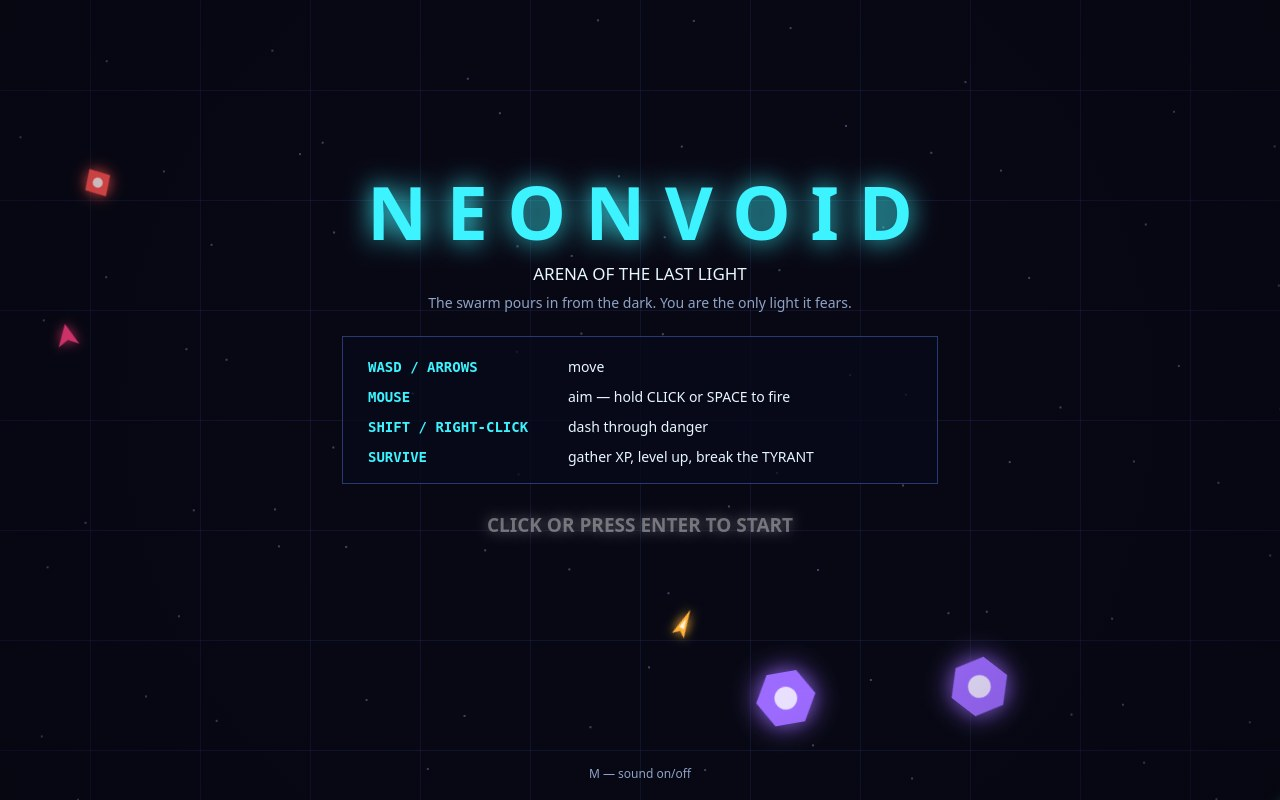
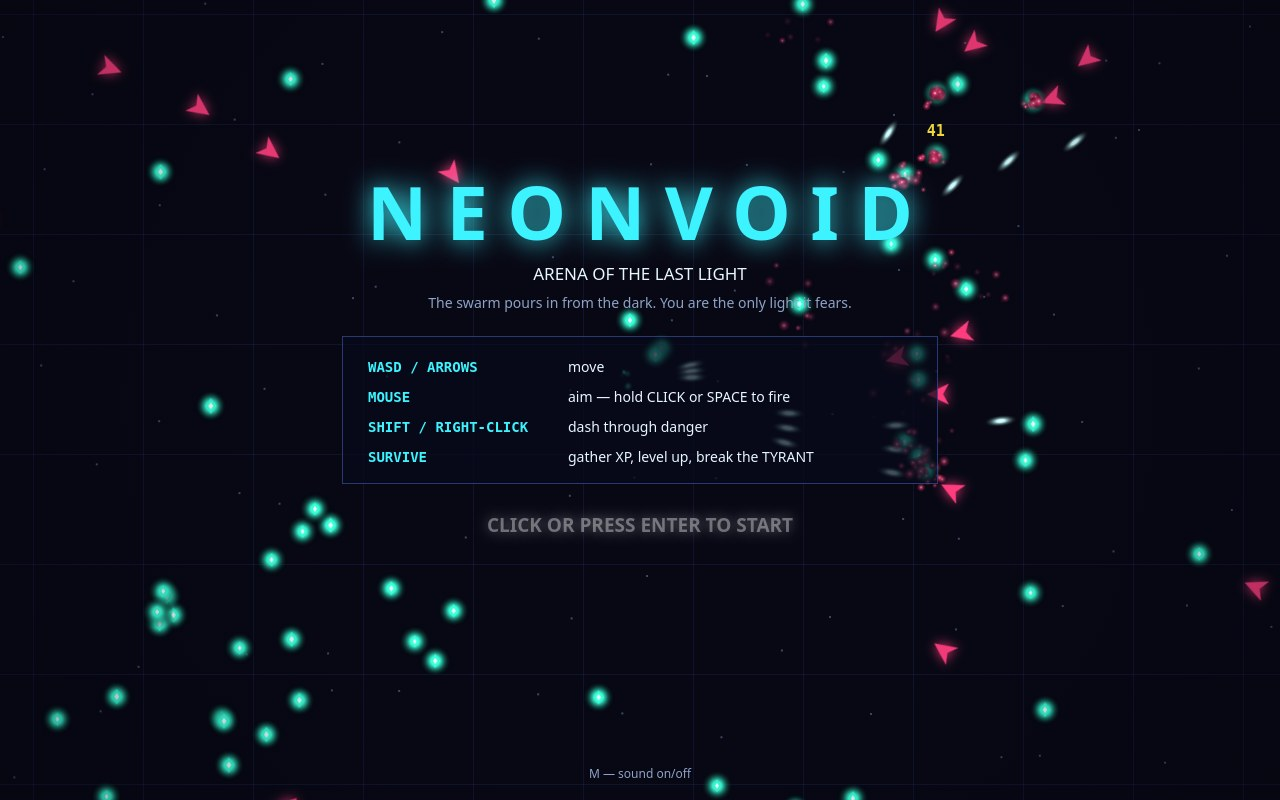
Presentation pass: climax screenshots and a mechanics title
Screenshots restaged as the moments the run builds to: the title over a
live mid-run swarm, the Void Tyrant fight itself (boss centred, hull bar
draining, orb bursts and a full bullet spread in frame), a level-21
level-up draft, and the victory results with the run's real numbers.
The level-up screen now lists the run's build under the cards (world
tracks upgrade stacks; render shows them), so the draft frame proves a
grown build, not a first choice. Scenes snapshot the best moment of one
autopilot run instead of replaying to a time — the random stream does
not rewind, so the old replay dealt a different run than it measured.

Title now names the mechanics everywhere the entry carries it
(README, page title): stack 10 upgrades, outlive the swarm, break the
Void Tyrant at 3:30.

diff --git a/game/src/shots.js b/game/src/shots.js
@@ -1,11 +1,18 @@
-// The screenshot scenes behind ?shot=title|battle|levelup|gameover. Each plays the real
-// rules forward from a fresh world, steered by a simple autopilot (keep clear of the swarm,
-// chase XP, shoot the nearest enemy), so every frame is a moment a real run passes through
-// and the same seed always deals the same frame. The battle scene is picked by rehearsing
-// the run once and noting its busiest moment, then playing to that moment again.
+// The screenshot scenes behind ?shot=title|battle|levelup|gameover|victory. Each plays the
+// real rules forward from a fresh world, steered by a simple autopilot (keep clear of the
+// swarm, chase XP, shoot the nearest enemy), so every frame is a moment a real run passes
+// through and the same seed always deals the same frame. A run cannot be replayed to a
+// chosen moment — the world's random stream does not rewind — so a scene that wants a
+// particular moment plays one run, keeps a snapshot of the best moment it passes, and
+// restores that snapshot to be photographed.
+//
+// The four frames the entry ships: the title over a live mid-run swarm (the start screen,
+// with the fight it promises already raging behind it), the Void Tyrant fight itself with
+// its hull bar, orb bursts and the swarm in frame, a late level-up draft with the run's
+// whole build listed under the cards, and the victory results the boss fight ends in.
 
 import { ARENA, STEP } from './config.js';
-import { SCREEN_LEVELUP, SCREEN_OVER, SCREEN_PLAY, SCREEN_TITLE } from './render.js';
+import { SCREEN_LEVELUP, SCREEN_OVER, SCREEN_PLAY, SCREEN_TITLE, SCREEN_VICTORY } from './render.js';
 
 /** What the autopilot values in a level-up card, best first. */
 const UPGRADE_TASTE = ['multi', 'power', 'rate', 'pierce', 'crit', 'hull', 'regen', 'magnet', 'dash', 'speed'];
@@ -112,20 +119,26 @@ function pilotControl(state, doomed, sloppy = false) {
   return { move, aimX, aimY, firing, dash: close >= 3 };
 }
 
+/** Take the pending level-up card the autopilot values most. */
+function pickByTaste(world) {
+  const state = world.state;
+  let pickIndex = 0;
+  let pickRank = Infinity;
+  state.choices.forEach((choice, index) => {
+    const rank = UPGRADE_TASTE.indexOf(choice.id);
+    if (rank < pickRank) {
+      pickRank = rank;
+      pickIndex = index;
+    }
+  });
+  world.chooseUpgrade(pickIndex);
+}
+
 /** One autopilot step: take any pending level-up card by taste, else advance the world. */
 function pilotStep(world, view, doomed, sloppy = false) {
   const state = world.state;
   if (state.pendingLevels > 0) {
-    let pickIndex = 0;
-    let pickRank = Infinity;
-    state.choices.forEach((choice, index) => {
-      const rank = UPGRADE_TASTE.indexOf(choice.id);
-      if (rank < pickRank) {
-        pickRank = rank;
-        pickIndex = index;
-      }
-    });
-    world.chooseUpgrade(pickIndex);
+    pickByTaste(world);
     return;
   }
   world.step(STEP, pilotControl(state, doomed, sloppy), view);
@@ -141,18 +154,74 @@ function pilotPlay(world, view, until, doomedAfter = Infinity, sloppy = false) {
   }
 }
 
-/** How much is happening inside the camera's view: the battle frame worth keeping. */
-function busyness(state, view) {
+/** Is a world point inside the camera's view, with a small margin? */
+function inView(state, view, o, margin = 50) {
   const cam = state.camera;
-  const inside = (o) => o.x > cam.x - 50 && o.x < cam.x + view.width + 50 && o.y > cam.y - 50 && o.y < cam.y + view.height + 50;
+  return o.x > cam.x - margin && o.x < cam.x + view.width + margin && o.y > cam.y - margin && o.y < cam.y + view.height + margin;
+}
+
+/**
+ * How much is happening inside the camera's view: the frame worth keeping. Enemies and
+ * the boss weigh most, then orb fire, gems, bullets, particles and crit numbers; a frame
+ * also reads best with the player near the middle of it, the swarm closing in.
+ */
+function density(state, view) {
   let score = 0;
-  for (const enemy of state.enemies) if (inside(enemy)) score += 3;
-  for (const shot of state.shots) if (inside(shot)) score += 1.5;
-  // A frame reads best with the player near the middle of it, the swarm closing in.
-  const px = state.player.x - cam.x;
-  const py = state.player.y - cam.y;
+  for (const enemy of state.enemies) if (inView(state, view, enemy)) score += 3;
+  if (state.boss && inView(state, view, state.boss)) score += 50;
+  for (const shot of state.shots) if (inView(state, view, shot)) score += 1.5;
+  for (const bullet of state.bullets) if (inView(state, view, bullet)) score += 1;
+  for (const gem of state.gems) if (inView(state, view, gem)) score += 0.7;
+  for (const p of state.particles) if (inView(state, view, p)) score += 0.25;
+  for (const t of state.texts) if (inView(state, view, t)) score += 2;
+  const px = state.player.x - state.camera.x;
+  const py = state.player.y - state.camera.y;
   if (px > view.width * 0.28 && px < view.width * 0.72 && py > view.height * 0.25 && py < view.height * 0.75) score += 7;
   return score;
+}
+
+/**
+ * Keep a copy of the world's state to restore later. A plain deep copy, not
+ * structuredClone: the level-up choices carry their `apply` functions, which a data
+ * clone refuses — functions (and everything else that is not an object) pass through by
+ * reference, and shared references (the boss is also one of the enemies) stay shared.
+ */
+function snapshot(state, seen = new Map()) {
+  if (state === null || typeof state !== 'object') return state;
+  if (seen.has(state)) return seen.get(state);
+  const copy = Array.isArray(state) ? [] : {};
+  seen.set(state, copy);
+  for (const key of Object.keys(state)) copy[key] = snapshot(state[key], seen);
+  return copy;
+}
+
+/** Put a snapshot back into the world's live state object, field by field. */
+function restore(state, snap) {
+  for (const key of Object.keys(state)) delete state[key];
+  Object.assign(state, snap);
+}
+
+/**
+ * Play one sloppy run, calling `scan(state)` after every step; it returns a score for
+ * moments worth keeping and null for the rest. Returns a snapshot of the best moment, or
+ * null if the scan never scored. The run plays out to its end (or `until` seconds).
+ */
+function playAndKeepBest(world, view, scan, until = 300) {
+  const state = world.state;
+  world.reset();
+  let best = null;
+  let bestScore = -Infinity;
+  let guard = Math.round(until / STEP) + 600;
+  while (!state.over && !state.victory && guard > 0) {
+    pilotStep(world, view, false, true);
+    guard -= 1;
+    const score = scan(state);
+    if (score !== null && score > bestScore) {
+      bestScore = score;
+      best = snapshot(state);
+    }
+  }
+  return best;
 }
 
 /**
@@ -161,44 +230,104 @@ function busyness(state, view) {
  */
 export function stageShot(name, world, view) {
   const state = world.state;
+
   if (name === 'battle') {
-    // Rehearse: play once, noting the busiest moment after the fight has warmed up.
+    // The Void Tyrant fight: the boss in view and already hurt, its orb bursts in flight,
+    // the swarm it summoned around it, the whole HUD live. If no boss moment qualifies
+    // (the boss always comes, so this is a formality), keep the run's busiest moment.
+    let best = playAndKeepBest(world, view, (s) => {
+      if (!s.boss || s.pendingLevels > 0) return null;
+      const frac = s.boss.hp / s.boss.maxHp;
+      if (frac < 0.12 || frac > 0.65 || !inView(s, view, s.boss)) return null;
+      // The Tyrant must loom in the frame, not lurk at its edge: near the player, clear
+      // of the frame's border, near its middle — with orb bursts and bullet fire on top.
+      const dist = Math.hypot(s.boss.x - s.player.x, s.boss.y - s.player.y);
+      if (dist > 660) return null;
+      const bx = s.boss.x - s.camera.x;
+      const by = s.boss.y - s.camera.y;
+      if (bx < 110 || bx > view.width - 110 || by < 110 || by > view.height - 110) return null;
+      return density(s, view) * 0.5 + s.shots.length * 4 + s.bullets.length
+        + (660 - dist) * 0.6 - (Math.abs(bx - view.width / 2) + Math.abs(by - view.height / 2)) * 0.2
+        + (s.banner ? 15 : 0);
+    });
+    if (!best) {
+      best = playAndKeepBest(world, view, (s) => (
+        s.time > 35 && s.time < 120 && s.pendingLevels === 0 ? density(s, view) : null
+      ), 130);
+    }
+    if (best) restore(state, best);
+    return { screen: SCREEN_PLAY, best: 0 };
+  }
+
+  if (name === 'levelup') {
+    // A late draft, not the first: note every level-up landing from level 14 on and keep
+    // the one with the most crowded arena behind the cards. The scan runs before the
+    // autopilot takes the card, so the snapshot holds the choice itself. If no late draft
+    // happens (the pilot always reaches one), stage the first landing instead.
+    let best = null;
+    let bestScore = -Infinity;
     world.reset();
-    let bestTime = 70;
-    let bestScore = -1;
-    let guard = Math.round(120 / STEP) + 600;
-    while (state.time < 82 && !state.over && !state.victory && guard > 0) {
-      pilotStep(world, view, false, true);
+    let guard = Math.round(300 / STEP) + 600;
+    while (!state.over && !state.victory && guard > 0) {
       guard -= 1;
-      if (state.time > 35 && state.pendingLevels === 0) {
-        const score = busyness(state, view);
+      if (state.pendingLevels > 0) {
+        pickByTaste(world);
+        continue;
+      }
+      world.step(STEP, pilotControl(state, false, true), view);
+      if (state.pendingLevels > 0 && state.level >= 14) {
+        const score = density(state, view);
         if (score > bestScore) {
           bestScore = score;
-          bestTime = state.time;
+          best = snapshot(state);
         }
       }
     }
-    // Play it again to that moment and hold the frame.
+    if (best) {
+      restore(state, best);
+      return { screen: SCREEN_LEVELUP, best: 0 };
+    }
     world.reset();
-    pilotPlay(world, view, bestTime, Infinity, true);
-    return { screen: SCREEN_PLAY, best: 0 };
-  }
-  world.reset();
-  if (name === 'levelup') {
-    // Play until the first level-up lands and hold the frame on its choice.
     for (let i = 0; i < 150 / STEP && state.pendingLevels === 0 && !state.over; i += 1) {
       world.step(STEP, pilotControl(state, false), view);
     }
     return { screen: SCREEN_LEVELUP, best: 0 };
   }
+
+  if (name === 'victory') {
+    // The whole run, played out: the Tyrant breaks at the end of it and the results
+    // screen keeps the run's real numbers — time, level, kills, score.
+    world.reset();
+    let guard = Math.round(420 / STEP) + 600;
+    while (!state.victory && !state.over && guard > 0) {
+      pilotStep(world, view, false, true);
+      guard -= 1;
+    }
+    if (state.victory) return { screen: SCREEN_VICTORY, best: state.score };
+    return { screen: state.over ? SCREEN_OVER : SCREEN_PLAY, best: state.score };
+  }
+
   if (name === 'gameover') {
+    world.reset();
     pilotPlay(world, view, 130, 42);
     return { screen: state.over ? SCREEN_OVER : SCREEN_PLAY, best: state.score };
   }
-  // Title: six seconds of harmless drift behind the name of the game.
-  state.enemies.length = 0;
-  for (let i = 0; i < 6 / STEP; i += 1) world.stepAmbient(STEP);
-  state.camera.x = ARENA.width / 2 - view.width / 2;
-  state.camera.y = ARENA.height / 2 - view.height / 2;
+
+  // Title: the start screen over a living arena — keep the most crowded mid-run moment
+  // of a sloppy run and freeze the swarm there behind the name of the game, so the cover
+  // promises the fight the other frames keep.
+  const best = playAndKeepBest(world, view, (s) => (
+    s.time > 50 && s.time < 120 && s.pendingLevels === 0 ? density(s, view) : null
+  ), 130);
+  if (best) {
+    restore(state, best);
+  } else {
+    // No crowd found (a formality): six seconds of harmless drift behind the name.
+    world.reset();
+    state.enemies.length = 0;
+    for (let i = 0; i < 6 / STEP; i += 1) world.stepAmbient(STEP);
+    state.camera.x = ARENA.width / 2 - view.width / 2;
+    state.camera.y = ARENA.height / 2 - view.height / 2;
+  }
   return { screen: SCREEN_TITLE, best: 0 };
 }

diff --git a/game/src/render.js b/game/src/render.js
@@ -5,6 +5,7 @@
 
 import { ARENA, COLORS } from './config.js';
 import { actorSprite, glowSprite } from './sprites.js';
+import { UPGRADES } from './upgrades.js';
 
 export const SCREEN_TITLE = 'title';
 export const SCREEN_PLAY = 'play';
@@ -303,6 +304,25 @@ export function createRenderer(canvas) {
       text(ctx, choice.text, r.x + r.w / 2, r.y + 88, { size: 13.5, align: 'center', color: COLORS.xp });
       text(ctx, `press ${i + 1} or click`, r.x + r.w / 2, r.y + r.h - 18, { size: 11, align: 'center', color: COLORS.dim });
     });
+
+    // The build so far, under the cards: every stack the run already owns, counts and all,
+    // so the choice reads as growing something, not starting from nothing.
+    const owned = UPGRADES.filter((u) => (state.build?.[u.id] ?? 0) > 0);
+    if (owned.length > 0) {
+      const bottom = rects[0].y + rects[0].h;
+      text(ctx, 'YOUR BUILD', view.width / 2, bottom + 32, { size: 11, align: 'center', bold: true, color: COLORS.dim });
+      ctx.font = `12.5px ${FONT}`;
+      const lines = [''];
+      for (const u of owned) {
+        const item = `${u.name} ×${state.build[u.id]}`;
+        const candidate = lines[lines.length - 1] ? `${lines[lines.length - 1]}  ·  ${item}` : item;
+        if (lines[lines.length - 1] && ctx.measureText(candidate).width > view.width - 180) lines.push(item);
+        else lines[lines.length - 1] = candidate;
+      }
+      lines.forEach((line, i) => {
+        text(ctx, line, view.width / 2, bottom + 54 + i * 20, { size: 12.5, align: 'center', color: COLORS.text });
+      });
+    }
   }
 
   function drawResults(state, best, ui, victory) {

diff --git a/game/src/world.js b/game/src/world.js
@@ -80,6 +80,7 @@ export function createWorld(next) {
     xpNeed: XP.base,
     pendingLevels: 0,
     choices: [],
+    build: {},
     player: makePlayer(),
     enemies: [],
     bullets: [],
@@ -512,6 +513,7 @@ export function createWorld(next) {
       state.xpNeed = XP.base;
       state.pendingLevels = 0;
       state.choices = [];
+      state.build = {};
       state.player = makePlayer();
       state.enemies.length = 0;
       state.bullets.length = 0;
@@ -609,6 +611,7 @@ export function createWorld(next) {
       const choice = state.choices[index];
       if (!choice || state.pendingLevels <= 0) return;
       choice.apply(state.player.stats, state.player);
+      state.build[choice.id] = (state.build[choice.id] ?? 0) + 1;
       state.pendingLevels -= 1;
       state.choices = state.pendingLevels > 0 ? dealChoices(next) : [];
       burst(state.player.x, state.player.y, COLORS.xp, 26, 200, 0.6, 4);

diff --git a/game/src/main.js b/game/src/main.js
@@ -3,8 +3,8 @@
 // sounds and announcements, and the renderer paints the screen the run is on: title, play,
 // level-up, paused, game over or victory.
 //
-// ?seed=N fixes a run's swarm. ?shot=title|battle|levelup|gameover (with &seed=N) stages
-// that scene instead of running the loop, paints it twice and sets window.__shotReady.
+// ?seed=N fixes a run's swarm. ?shot=title|battle|levelup|gameover|victory (with &seed=N)
+// stages that scene instead of running the loop, paints it twice and sets __shotReady.
 
 import { ARENA, BEST_KEY, STEP } from './config.js';
 import { createRandom } from './random.js';

diff --git a/game/index.html b/game/index.html
@@ -3,7 +3,7 @@
 <head>
 <meta charset="utf-8">
 <meta name="viewport" content="width=device-width, initial-scale=1">
-<title>NEONVOID — Arena of the Last Light</title>
+<title>NEONVOID: stack 10 upgrades, outlive the swarm, break the Void Tyrant at 3:30</title>
 <style>
   html, body { margin: 0; height: 100%; overflow: hidden; background: #070814; }
   #game { position: fixed; inset: 0; width: 100%; height: 100%; display: block; touch-action: none; cursor: crosshair; }

diff --git a/README.md b/README.md
@@ -4,7 +4,7 @@
 [![rank](https://make.fun/badge/best-game-01/tiankundi/neonvoid/rank.svg)](https://make.fun/bounty/best-game-01/leaderboard?utm_source=github&utm_medium=readme&utm_campaign=best-game-01)
 [![reward](https://make.fun/badge/best-game-01/tiankundi/neonvoid/reward.svg)](https://make.fun/bounty/best-game-01?utm_source=github&utm_medium=readme&utm_campaign=best-game-01)
 
-# NEONVOID — Arena of the Last Light
+# NEONVOID: stack 10 upgrades, outlive the swarm, break the Void Tyrant at 3:30
 
 A neon arena-survival shooter for the browser. You are the last light in a dark arena;
 the swarm pours in from every side. Survive the waves, gather the XP the dead leave
@@ -50,9 +50,10 @@ those from `file://`. Any static file server does.)
   kills, level, XP bar), pause, and victory/defeat results screens with your stats,
   your best score, and one-click restart.
 - **Deterministic runs**: all chance flows through a seeded generator, so
-  `?seed=1234` replays the same run. `?shot=title|battle|levelup|gameover` stages a
-  frame for the screenshots in `screenshots/` — an autopilot plays the real rules to
-  the moment each picture shows.
+  `?seed=1234` replays the same run. `?shot=title|battle|levelup|gameover|victory`
+  stages a frame for the screenshots in `screenshots/` — an autopilot plays the real
+  rules to the moment each picture shows: the title over a live swarm, the Tyrant
+  fight, a late level-up draft with the build it grew, and the victory results.
 
 ## Layout
 
